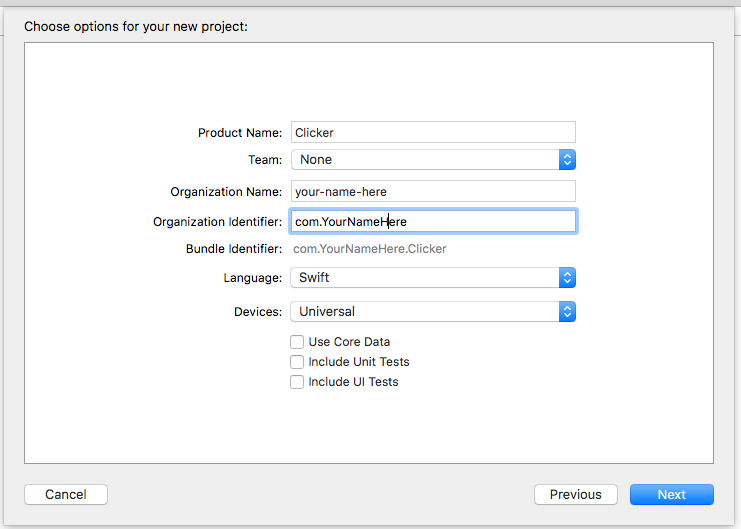
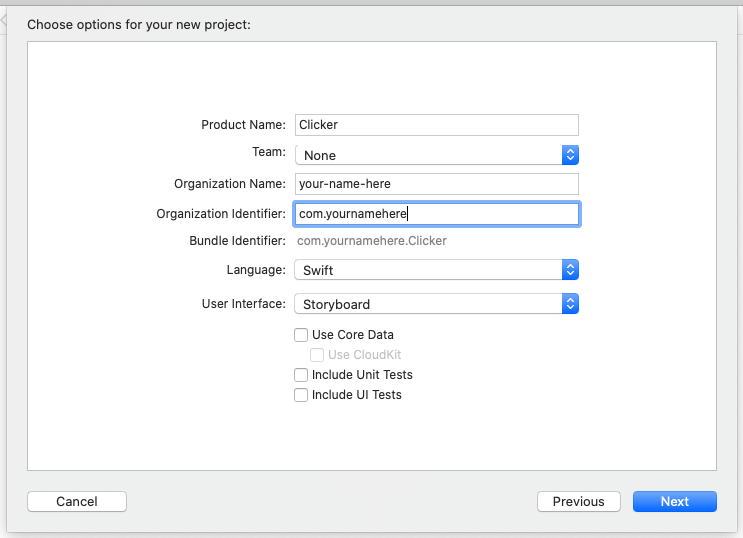
Update earlier steps for Xcode 11 (#28)
Updates some screenshots which were seen as confusing by students who were using Xcode 11. Adds an additional image to clarify the Run button.

Changed region(s): [[0.1862, 0.2117, 0.807, 0.7561], [0.0, 0.0, 1.0, 0.8771], [0.0, 0.9074, 0.9933, 0.9981]]

diff --git a/src/docs/cookie-clicker-storyboard.md b/src/docs/cookie-clicker-storyboard.md
@@ -28,8 +28,8 @@ Download and install Xcode from the App Store. This may take a while — its
   * Team: None
   * Organization Name: Whatever you want — your name is always a good fill-in
   * Organization Identifier: com.(OrganizationName)
-
-  Make sure Swift is selected as the language, and Devices is set to Universal.
+  * Language: Swift
+  * User interface: Storyboard
 
   Untick the 3 boxes at the bottom.
 
@@ -49,11 +49,15 @@ Download and install Xcode from the App Store. This may take a while — its
 
   ![step4](assets/cookie_clicker_storyboard/step4.gif)
 
-### 2. Now, click on the **Object Library** next to the **Standard Editor**. In the search box, find a button, and drag it to the bottom of the view shown in the storyboard.
+### 2. Now, click on the **Object Library** next to the **Standard Editor**. In the search box, find Button, and drag it to the bottom of the view shown in the storyboard.
 
-  ![step5](assets/cookie_clicker_storyboard/object-Library.png)
+  ![You can open the object library by clicking the plus button towards the top right of the Xcode window](assets/cookie_clicker_storyboard/object-library.png)
 
-### 3. Run your app on the iPhone 7 Plus Simulator. See your button, there in all its glory at the bottom of the screen. Go ahead - press it!
+### 3. Run your app on a Simulator. 
+
+  ![The run button is in the top left of the screen](assets/cookie_clicker_storyboard/run-button.png)
+
+  This might take a minute or so to complete, so be patient! But eventually your button should be there in all its glory at the bottom of the screen. Go ahead - press it!
 
   Celebrate appropriately.
 
@@ -113,7 +117,7 @@ Download and install Xcode from the App Store. This may take a while — its
   }
   ```
 
-### 9. Run your app in the iPhone 7 Plus simulator again, and tap on the button.
+### 9. Run your app in the simulator again, and tap on the button.
 
   ![step8](assets/cookie_clicker_storyboard/step8.gif)
 
@@ -152,17 +156,17 @@ Download and install Xcode from the App Store. This may take a while — its
   Your `ViewController` should now look like this:
 
   ```swift
-    import UIKit
+  import UIKit
 
-    class ViewController: UIViewController {
+  class ViewController: UIViewController {
 
-      @IBOutlet weak var counterLabel: UILabel!
+    @IBOutlet weak var counterLabel: UILabel!
 
-      @IBAction func buttonTapped(_ sender: Any) {
-        print("Hello, world")
-      }
-
+    @IBAction func buttonTapped(_ sender: Any) {
+      print("Hello, world")
     }
+
+  }
   ```
 
 ### 14. Next we want to get actions on our button changing the appearance of our label.
